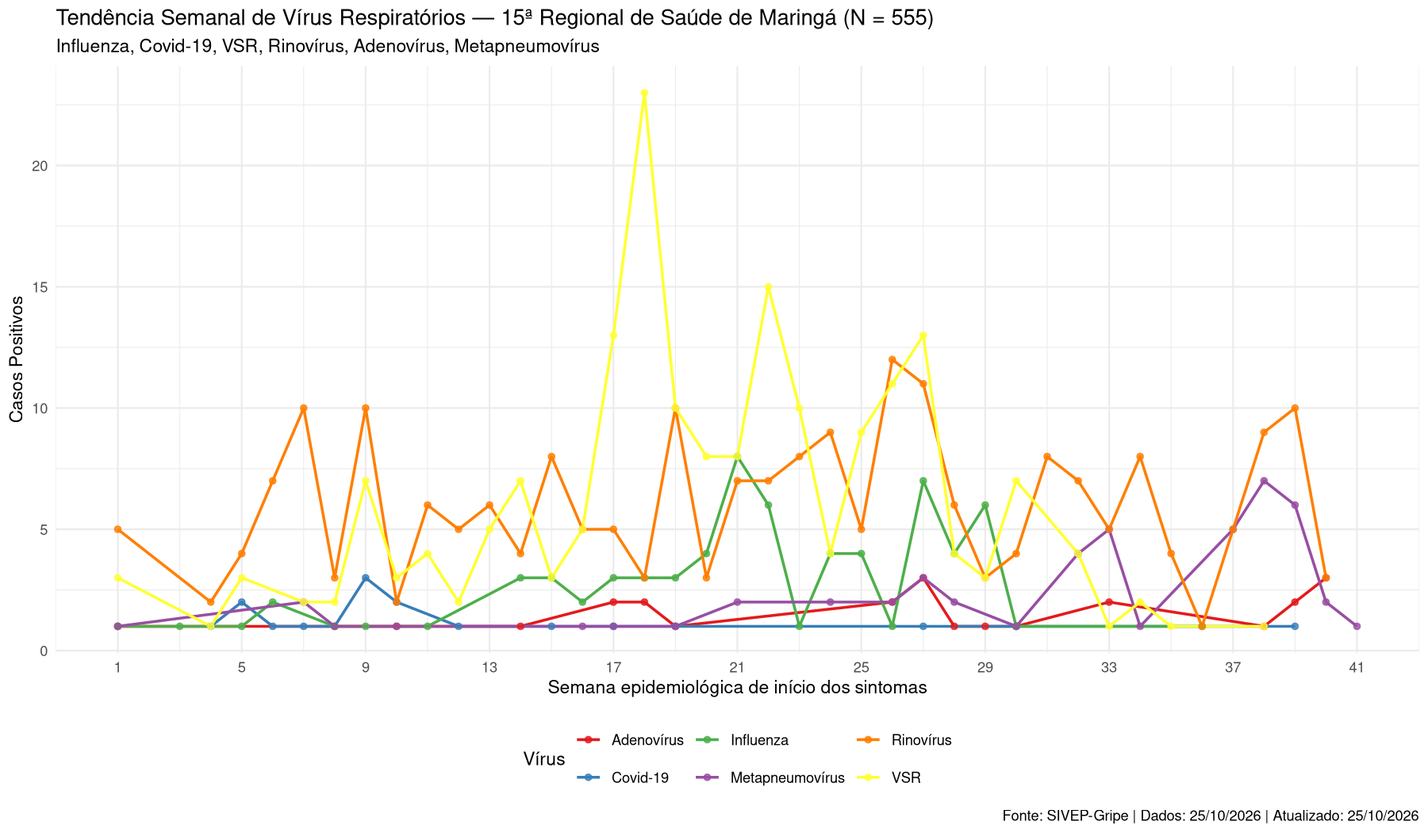
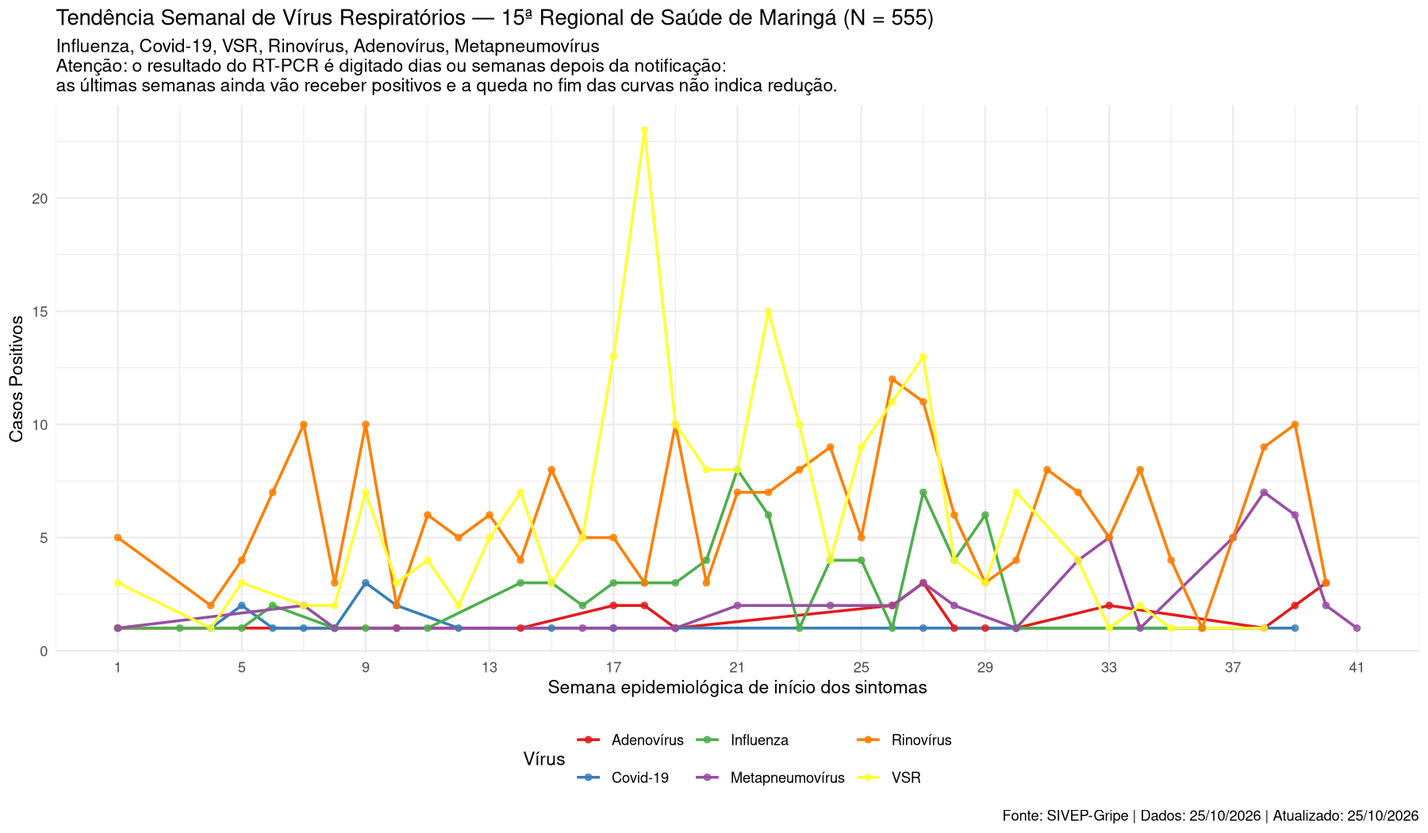
Atualização de layout/texto — 25/10/2026

diff --git a/docs/index.html b/docs/index.html
@@ -192,7 +192,7 @@ pre > code.sourceCode > span > a:first-child::before { text-decoration: underlin
     <div>
     <div class="quarto-title-meta-heading">Data de Publicação</div>
     <div class="quarto-title-meta-contents">
-      <p class="date">25/10/2026 12:55</p>
+      <p class="date">25/10/2026 13:11</p>
     </div>
   </div>
   
@@ -944,6 +944,13 @@ Nota
 </div>
 </div>
 </div>
+<p>O gráfico abaixo mostra cada uma dessas semanas: a barra é o total conhecido hoje, o ponto vermelho com a barra de erro é a estimativa feita quando aquela era a última semana disponível, e o ✕ cinza é quantos casos já estavam digitados naquele momento. Quando a barra azul termina dentro da barra de erro, a estimativa acertou.</p>
+<div class="quarto-figure quarto-figure-center">
+<figure class="figure">
+<p><a href="graficos/06d_nowcasting_validacao.png" class="lightbox" data-gallery="quarto-lightbox-gallery-2" title="Validação retrospectiva do nowcasting — estimativa feita na época × total conhecido hoje."><img src="graficos/06d_nowcasting_validacao.png" class="img-fluid figure-img" alt="Validação retrospectiva do nowcasting — estimativa feita na época × total conhecido hoje."></a></p>
+<figcaption>Validação retrospectiva do nowcasting — estimativa feita na época × total conhecido hoje.</figcaption>
+</figure>
+</div>
 <p>A estimativa da última semana é a mais incerta (intervalo largo), porque se baseia em poucos casos já digitados. Detalhes do modelo na <a href="https://github.com/valentim1979/virus-respiratorios/blob/main/METODOLOGIA.md">metodologia</a>.</p>
 </div>
 </div>
@@ -952,7 +959,7 @@ Nota
 <div id="tabset-1-2" class="tab-pane" role="tabpanel" aria-labelledby="tabset-1-2-tab">
 <div class="quarto-figure quarto-figure-center">
 <figure class="figure">
-<p><a href="graficos/06_curva_epidemica_comparativa.png" class="lightbox" data-gallery="quarto-lightbox-gallery-2" title="Curva epidêmica por semana epidemiológica de início dos sintomas — comparativo anual (2024–2026). A linha mais espessa representa o ano corrente."><img src="graficos/06_curva_epidemica_comparativa.png" class="img-fluid figure-img" alt="Curva epidêmica por semana epidemiológica de início dos sintomas — comparativo anual (2024–2026). A linha mais espessa representa o ano corrente."></a></p>
+<p><a href="graficos/06_curva_epidemica_comparativa.png" class="lightbox" data-gallery="quarto-lightbox-gallery-3" title="Curva epidêmica por semana epidemiológica de início dos sintomas — comparativo anual (2024–2026). A linha mais espessa representa o ano corrente."><img src="graficos/06_curva_epidemica_comparativa.png" class="img-fluid figure-img" alt="Curva epidêmica por semana epidemiológica de início dos sintomas — comparativo anual (2024–2026). A linha mais espessa representa o ano corrente."></a></p>
 <figcaption>Curva epidêmica por semana epidemiológica de início dos sintomas — comparativo anual (2024–2026). A linha mais espessa representa o ano corrente.</figcaption>
 </figure>
 </div>
@@ -985,7 +992,7 @@ Nota
 </div>
 <div class="quarto-figure quarto-figure-center">
 <figure class="figure">
-<p><a href="graficos/06b_canal_endemico.png" class="lightbox" data-gallery="quarto-lightbox-gallery-3" title="Canal endêmico de SRAG por semana epidemiológica de início dos sintomas — zona verde = esperado (P25–P75), zona amarela = alerta (P75–P90), pontos acima da zona amarela = nível epidêmico (> P90). Linha tracejada = mediana histórica pós-pandêmica (2022–2025)."><img src="graficos/06b_canal_endemico.png" class="img-fluid figure-img" alt="Canal endêmico de SRAG por semana epidemiológica de início dos sintomas — zona verde = esperado (P25–P75), zona amarela = alerta (P75–P90), pontos acima da zona amarela = nível epidêmico (> P90). Linha tracejada = mediana histórica pós-pandêmica (2022–2025)."></a></p>
+<p><a href="graficos/06b_canal_endemico.png" class="lightbox" data-gallery="quarto-lightbox-gallery-4" title="Canal endêmico de SRAG por semana epidemiológica de início dos sintomas — zona verde = esperado (P25–P75), zona amarela = alerta (P75–P90), pontos acima da zona amarela = nível epidêmico (> P90). Linha tracejada = mediana histórica pós-pandêmica (2022–2025)."><img src="graficos/06b_canal_endemico.png" class="img-fluid figure-img" alt="Canal endêmico de SRAG por semana epidemiológica de início dos sintomas — zona verde = esperado (P25–P75), zona amarela = alerta (P75–P90), pontos acima da zona amarela = nível epidêmico (> P90). Linha tracejada = mediana histórica pós-pandêmica (2022–2025)."></a></p>
 <figcaption>Canal endêmico de SRAG por semana epidemiológica de início dos sintomas — zona verde = esperado (P25–P75), zona amarela = alerta (P75–P90), pontos acima da zona amarela = nível epidêmico (&gt; P90). Linha tracejada = mediana histórica pós-pandêmica (2022–2025).</figcaption>
 </figure>
 </div>
@@ -993,7 +1000,7 @@ Nota
 <div id="tabset-1-4" class="tab-pane" role="tabpanel" aria-labelledby="tabset-1-4-tab">
 <div class="quarto-figure quarto-figure-center">
 <figure class="figure">
-<p><a href="graficos/07_notificacoes_semana_epi.png" class="lightbox" data-gallery="quarto-lightbox-gallery-4" title="Total de notificações de SRAG por semana epidemiológica de início dos sintomas — 2026."><img src="graficos/07_notificacoes_semana_epi.png" class="img-fluid figure-img" alt="Total de notificações de SRAG por semana epidemiológica de início dos sintomas — 2026."></a></p>
+<p><a href="graficos/07_notificacoes_semana_epi.png" class="lightbox" data-gallery="quarto-lightbox-gallery-5" title="Total de notificações de SRAG por semana epidemiológica de início dos sintomas — 2026."><img src="graficos/07_notificacoes_semana_epi.png" class="img-fluid figure-img" alt="Total de notificações de SRAG por semana epidemiológica de início dos sintomas — 2026."></a></p>
 <figcaption>Total de notificações de SRAG por semana epidemiológica de início dos sintomas — 2026.</figcaption>
 </figure>
 </div>
@@ -1001,7 +1008,7 @@ Nota
 <div id="tabset-1-5" class="tab-pane" role="tabpanel" aria-labelledby="tabset-1-5-tab">
 <div class="quarto-figure quarto-figure-center">
 <figure class="figure">
-<p><a href="graficos/08_confirmados_semana_epi.png" class="lightbox" data-gallery="quarto-lightbox-gallery-5" title="Casos confirmados de SRAG por semana epidemiológica de início dos sintomas — 2026."><img src="graficos/08_confirmados_semana_epi.png" class="img-fluid figure-img" alt="Casos confirmados de SRAG por semana epidemiológica de início dos sintomas — 2026."></a></p>
+<p><a href="graficos/08_confirmados_semana_epi.png" class="lightbox" data-gallery="quarto-lightbox-gallery-6" title="Casos confirmados de SRAG por semana epidemiológica de início dos sintomas — 2026."><img src="graficos/08_confirmados_semana_epi.png" class="img-fluid figure-img" alt="Casos confirmados de SRAG por semana epidemiológica de início dos sintomas — 2026."></a></p>
 <figcaption>Casos confirmados de SRAG por semana epidemiológica de início dos sintomas — 2026.</figcaption>
 </figure>
 </div>
@@ -1009,7 +1016,7 @@ Nota
 <div id="tabset-1-6" class="tab-pane" role="tabpanel" aria-labelledby="tabset-1-6-tab">
 <div class="quarto-figure quarto-figure-center">
 <figure class="figure">
-<p><a href="graficos/07b_variacao_semanal.png" class="lightbox" data-gallery="quarto-lightbox-gallery-6" title="Casos de SRAG por semana epidemiológica de início dos sintomas, com linha de média do período e variação percentual semana a semana. Vermelho = aumento em relação à semana anterior. Verde = redução."><img src="graficos/07b_variacao_semanal.png" class="img-fluid figure-img" alt="Casos de SRAG por semana epidemiológica de início dos sintomas, com linha de média do período e variação percentual semana a semana. Vermelho = aumento em relação à semana anterior. Verde = redução."></a></p>
+<p><a href="graficos/07b_variacao_semanal.png" class="lightbox" data-gallery="quarto-lightbox-gallery-7" title="Casos de SRAG por semana epidemiológica de início dos sintomas, com linha de média do período e variação percentual semana a semana. Vermelho = aumento em relação à semana anterior. Verde = redução."><img src="graficos/07b_variacao_semanal.png" class="img-fluid figure-img" alt="Casos de SRAG por semana epidemiológica de início dos sintomas, com linha de média do período e variação percentual semana a semana. Vermelho = aumento em relação à semana anterior. Verde = redução."></a></p>
 <figcaption>Casos de SRAG por semana epidemiológica de início dos sintomas, com linha de média do período e variação percentual semana a semana. Vermelho = aumento em relação à semana anterior. Verde = redução.</figcaption>
 </figure>
 </div>
@@ -1026,7 +1033,7 @@ Nota
 <div id="tabset-2-1" class="tab-pane active" role="tabpanel" aria-labelledby="tabset-2-1-tab">
 <div class="quarto-figure quarto-figure-center">
 <figure class="figure">
-<p><a href="graficos/09_incidencia_por_municipio.png" class="lightbox" data-gallery="quarto-lightbox-gallery-7" title="Taxa de incidência de SRAG por município da 15ª RS — casos por 100 mil hab. (Pop. estimada 2025)."><img src="graficos/09_incidencia_por_municipio.png" class="img-fluid figure-img" alt="Taxa de incidência de SRAG por município da 15ª RS — casos por 100 mil hab. (Pop. estimada 2025)."></a></p>
+<p><a href="graficos/09_incidencia_por_municipio.png" class="lightbox" data-gallery="quarto-lightbox-gallery-8" title="Taxa de incidência de SRAG por município da 15ª RS — casos por 100 mil hab. (Pop. estimada 2025)."><img src="graficos/09_incidencia_por_municipio.png" class="img-fluid figure-img" alt="Taxa de incidência de SRAG por município da 15ª RS — casos por 100 mil hab. (Pop. estimada 2025)."></a></p>
 <figcaption>Taxa de incidência de SRAG por município da 15ª RS — casos por 100 mil hab. (Pop. estimada 2025).</figcaption>
 </figure>
 </div>
@@ -1034,7 +1041,7 @@ Nota
 <div id="tabset-2-2" class="tab-pane" role="tabpanel" aria-labelledby="tabset-2-2-tab">
 <div class="quarto-figure quarto-figure-center">
 <figure class="figure">
-<p><a href="graficos/10_notificacoes_regionais_pr.png" class="lightbox" data-gallery="quarto-lightbox-gallery-8" title="Total de notificações de SRAG por Regional de Saúde — Paraná — 2026."><img src="graficos/10_notificacoes_regionais_pr.png" class="img-fluid figure-img" alt="Total de notificações de SRAG por Regional de Saúde — Paraná — 2026."></a></p>
+<p><a href="graficos/10_notificacoes_regionais_pr.png" class="lightbox" data-gallery="quarto-lightbox-gallery-9" title="Total de notificações de SRAG por Regional de Saúde — Paraná — 2026."><img src="graficos/10_notificacoes_regionais_pr.png" class="img-fluid figure-img" alt="Total de notificações de SRAG por Regional de Saúde — Paraná — 2026."></a></p>
 <figcaption>Total de notificações de SRAG por Regional de Saúde — Paraná — 2026.</figcaption>
 </figure>
 </div>
@@ -1089,7 +1096,7 @@ Nota
 <div id="tabset-4-1" class="tab-pane active" role="tabpanel" aria-labelledby="tabset-4-1-tab">
 <div class="quarto-figure quarto-figure-center">
 <figure class="figure">
-<p><a href="graficos/11_distribuicao_sexo.png" class="lightbox" data-gallery="quarto-lightbox-gallery-11" title="Distribuição de notificações de SRAG por sexo — 15ª RS — 2026."><img src="graficos/11_distribuicao_sexo.png" class="img-fluid figure-img" alt="Distribuição de notificações de SRAG por sexo — 15ª RS — 2026."></a></p>
+<p><a href="graficos/11_distribuicao_sexo.png" class="lightbox" data-gallery="quarto-lightbox-gallery-12" title="Distribuição de notificações de SRAG por sexo — 15ª RS — 2026."><img src="graficos/11_distribuicao_sexo.png" class="img-fluid figure-img" alt="Distribuição de notificações de SRAG por sexo — 15ª RS — 2026."></a></p>
 <figcaption>Distribuição de notificações de SRAG por sexo — 15ª RS — 2026.</figcaption>
 </figure>
 </div>
@@ -1097,7 +1104,7 @@ Nota
 <div id="tabset-4-2" class="tab-pane" role="tabpanel" aria-labelledby="tabset-4-2-tab">
 <div class="quarto-figure quarto-figure-center">
 <figure class="figure">
-<p><a href="graficos/12_classificacao_final.png" class="lightbox" data-gallery="quarto-lightbox-gallery-12" title="Classificação final dos casos de SRAG notificados — 15ª RS — 2026."><img src="graficos/12_classificacao_final.png" class="img-fluid figure-img" alt="Classificação final dos casos de SRAG notificados — 15ª RS — 2026."></a></p>
+<p><a href="graficos/12_classificacao_final.png" class="lightbox" data-gallery="quarto-lightbox-gallery-13" title="Classificação final dos casos de SRAG notificados — 15ª RS — 2026."><img src="graficos/12_classificacao_final.png" class="img-fluid figure-img" alt="Classificação final dos casos de SRAG notificados — 15ª RS — 2026."></a></p>
 <figcaption>Classificação final dos casos de SRAG notificados — 15ª RS — 2026.</figcaption>
 </figure>
 </div>
@@ -1105,7 +1112,7 @@ Nota
 <div id="tabset-4-3" class="tab-pane" role="tabpanel" aria-labelledby="tabset-4-3-tab">
 <div class="quarto-figure quarto-figure-center">
 <figure class="figure">
-<p><a href="graficos/16_faixa_etaria_notif_confirmados.png" class="lightbox" data-gallery="quarto-lightbox-gallery-13" title="Comparativo de faixa etária entre notificados e confirmados de SRAG — 15ª RS — 2026."><img src="graficos/16_faixa_etaria_notif_confirmados.png" class="img-fluid figure-img" alt="Comparativo de faixa etária entre notificados e confirmados de SRAG — 15ª RS — 2026."></a></p>
+<p><a href="graficos/16_faixa_etaria_notif_confirmados.png" class="lightbox" data-gallery="quarto-lightbox-gallery-14" title="Comparativo de faixa etária entre notificados e confirmados de SRAG — 15ª RS — 2026."><img src="graficos/16_faixa_etaria_notif_confirmados.png" class="img-fluid figure-img" alt="Comparativo de faixa etária entre notificados e confirmados de SRAG — 15ª RS — 2026."></a></p>
 <figcaption>Comparativo de faixa etária entre notificados e confirmados de SRAG — 15ª RS — 2026.</figcaption>
 </figure>
 </div>
@@ -1113,7 +1120,7 @@ Nota
 <div id="tabset-4-4" class="tab-pane" role="tabpanel" aria-labelledby="tabset-4-4-tab">
 <div class="quarto-figure quarto-figure-center">
 <figure class="figure">
-<p><a href="graficos/17_piramide_etaria_notificados.png" class="lightbox" data-gallery="quarto-lightbox-gallery-14" title="Pirâmide etária dos casos notificados de SRAG, por sexo — 15ª RS — 2026."><img src="graficos/17_piramide_etaria_notificados.png" class="img-fluid figure-img" alt="Pirâmide etária dos casos notificados de SRAG, por sexo — 15ª RS — 2026."></a></p>
+<p><a href="graficos/17_piramide_etaria_notificados.png" class="lightbox" data-gallery="quarto-lightbox-gallery-15" title="Pirâmide etária dos casos notificados de SRAG, por sexo — 15ª RS — 2026."><img src="graficos/17_piramide_etaria_notificados.png" class="img-fluid figure-img" alt="Pirâmide etária dos casos notificados de SRAG, por sexo — 15ª RS — 2026."></a></p>
 <figcaption>Pirâmide etária dos casos notificados de SRAG, por sexo — 15ª RS — 2026.</figcaption>
 </figure>
 </div>
@@ -1121,7 +1128,7 @@ Nota
 <div id="tabset-4-5" class="tab-pane" role="tabpanel" aria-labelledby="tabset-4-5-tab">
 <div class="quarto-figure quarto-figure-center">
 <figure class="figure">
-<p><a href="graficos/18_piramide_etaria_obitos.png" class="lightbox" data-gallery="quarto-lightbox-gallery-15" title="Pirâmide etária dos óbitos por SRAG, por sexo — 15ª RS — 2026."><img src="graficos/18_piramide_etaria_obitos.png" class="img-fluid figure-img" alt="Pirâmide etária dos óbitos por SRAG, por sexo — 15ª RS — 2026."></a></p>
+<p><a href="graficos/18_piramide_etaria_obitos.png" class="lightbox" data-gallery="quarto-lightbox-gallery-16" title="Pirâmide etária dos óbitos por SRAG, por sexo — 15ª RS — 2026."><img src="graficos/18_piramide_etaria_obitos.png" class="img-fluid figure-img" alt="Pirâmide etária dos óbitos por SRAG, por sexo — 15ª RS — 2026."></a></p>
 <figcaption>Pirâmide etária dos óbitos por SRAG, por sexo — 15ª RS — 2026.</figcaption>
 </figure>
 </div>
@@ -1129,7 +1136,7 @@ Nota
 <div id="tabset-4-6" class="tab-pane" role="tabpanel" aria-labelledby="tabset-4-6-tab">
 <div class="quarto-figure quarto-figure-center">
 <figure class="figure">
-<p><a href="graficos/19_evolucao_desfecho.png" class="lightbox" data-gallery="quarto-lightbox-gallery-16" title="Distribuição dos casos de SRAG por evolução (desfecho) — cura, óbito e em investigação — 15ª RS — 2026."><img src="graficos/19_evolucao_desfecho.png" class="img-fluid figure-img" alt="Distribuição dos casos de SRAG por evolução (desfecho) — cura, óbito e em investigação — 15ª RS — 2026."></a></p>
+<p><a href="graficos/19_evolucao_desfecho.png" class="lightbox" data-gallery="quarto-lightbox-gallery-17" title="Distribuição dos casos de SRAG por evolução (desfecho) — cura, óbito e em investigação — 15ª RS — 2026."><img src="graficos/19_evolucao_desfecho.png" class="img-fluid figure-img" alt="Distribuição dos casos de SRAG por evolução (desfecho) — cura, óbito e em investigação — 15ª RS — 2026."></a></p>
 <figcaption>Distribuição dos casos de SRAG por evolução (desfecho) — cura, óbito e em investigação — 15ª RS — 2026.</figcaption>
 </figure>
 </div>
@@ -1137,7 +1144,7 @@ Nota
 <div id="tabset-4-7" class="tab-pane" role="tabpanel" aria-labelledby="tabset-4-7-tab">
 <div class="quarto-figure quarto-figure-center">
 <figure class="figure">
-<p><a href="graficos/20_raca_cor.png" class="lightbox" data-gallery="quarto-lightbox-gallery-17" title="Distribuição de casos de SRAG por raça/cor autodeclarada — 15ª RS — 2026."><img src="graficos/20_raca_cor.png" class="img-fluid figure-img" alt="Distribuição de casos de SRAG por raça/cor autodeclarada — 15ª RS — 2026."></a></p>
+<p><a href="graficos/20_raca_cor.png" class="lightbox" data-gallery="quarto-lightbox-gallery-18" title="Distribuição de casos de SRAG por raça/cor autodeclarada — 15ª RS — 2026."><img src="graficos/20_raca_cor.png" class="img-fluid figure-img" alt="Distribuição de casos de SRAG por raça/cor autodeclarada — 15ª RS — 2026."></a></p>
 <figcaption>Distribuição de casos de SRAG por raça/cor autodeclarada — 15ª RS — 2026.</figcaption>
 </figure>
 </div>
@@ -1154,7 +1161,7 @@ Nota
 <div id="tabset-5-1" class="tab-pane active" role="tabpanel" aria-labelledby="tabset-5-1-tab">
 <div class="quarto-figure quarto-figure-center">
 <figure class="figure">
-<p><a href="graficos/13_circulacao_viral_total.png" class="lightbox" data-gallery="quarto-lightbox-gallery-18" title="Agentes virais identificados por RT-PCR nos casos de SRAG — 15ª RS — 2026."><img src="graficos/13_circulacao_viral_total.png" class="img-fluid figure-img" alt="Agentes virais identificados por RT-PCR nos casos de SRAG — 15ª RS — 2026."></a></p>
+<p><a href="graficos/13_circulacao_viral_total.png" class="lightbox" data-gallery="quarto-lightbox-gallery-19" title="Agentes virais identificados por RT-PCR nos casos de SRAG — 15ª RS — 2026."><img src="graficos/13_circulacao_viral_total.png" class="img-fluid figure-img" alt="Agentes virais identificados por RT-PCR nos casos de SRAG — 15ª RS — 2026."></a></p>
 <figcaption>Agentes virais identificados por RT-PCR nos casos de SRAG — 15ª RS — 2026.</figcaption>
 </figure>
 </div>
@@ -1162,7 +1169,7 @@ Nota
 <div id="tabset-5-2" class="tab-pane" role="tabpanel" aria-labelledby="tabset-5-2-tab">
 <div class="quarto-figure quarto-figure-center">
 <figure class="figure">
-<p><a href="graficos/14_tendencia_viral_semanal.png" class="lightbox" data-gallery="quarto-lightbox-gallery-19" title="Tendência semanal (semana de início dos sintomas) dos principais vírus respiratórios por RT-PCR — Influenza, Covid-19, VSR, Rinovírus, Adenovírus, Metapneumovírus — 15ª RS — 2026."><img src="graficos/14_tendencia_viral_semanal.png" class="img-fluid figure-img" alt="Tendência semanal (semana de início dos sintomas) dos principais vírus respiratórios por RT-PCR — Influenza, Covid-19, VSR, Rinovírus, Adenovírus, Metapneumovírus — 15ª RS — 2026."></a></p>
+<p><a href="graficos/14_tendencia_viral_semanal.png" class="lightbox" data-gallery="quarto-lightbox-gallery-20" title="Tendência semanal (semana de início dos sintomas) dos principais vírus respiratórios por RT-PCR — Influenza, Covid-19, VSR, Rinovírus, Adenovírus, Metapneumovírus — 15ª RS — 2026."><img src="graficos/14_tendencia_viral_semanal.png" class="img-fluid figure-img" alt="Tendência semanal (semana de início dos sintomas) dos principais vírus respiratórios por RT-PCR — Influenza, Covid-19, VSR, Rinovírus, Adenovírus, Metapneumovírus — 15ª RS — 2026."></a></p>
 <figcaption>Tendência semanal (semana de início dos sintomas) dos principais vírus respiratórios por RT-PCR — Influenza, Covid-19, VSR, Rinovírus, Adenovírus, Metapneumovírus — 15ª RS — 2026.</figcaption>
 </figure>
 </div>
@@ -1170,7 +1177,7 @@ Nota
 <div id="tabset-5-3" class="tab-pane" role="tabpanel" aria-labelledby="tabset-5-3-tab">
 <div class="quarto-figure quarto-figure-center">
 <figure class="figure">
-<p><a href="graficos/15_tipos_linhagens_influenza.png" class="lightbox" data-gallery="quarto-lightbox-gallery-20" title="Tipos e linhagens de Influenza identificados por RT-PCR — 15ª RS — 2026."><img src="graficos/15_tipos_linhagens_influenza.png" class="img-fluid figure-img" alt="Tipos e linhagens de Influenza identificados por RT-PCR — 15ª RS — 2026."></a></p>
+<p><a href="graficos/15_tipos_linhagens_influenza.png" class="lightbox" data-gallery="quarto-lightbox-gallery-21" title="Tipos e linhagens de Influenza identificados por RT-PCR — 15ª RS — 2026."><img src="graficos/15_tipos_linhagens_influenza.png" class="img-fluid figure-img" alt="Tipos e linhagens de Influenza identificados por RT-PCR — 15ª RS — 2026."></a></p>
 <figcaption>Tipos e linhagens de Influenza identificados por RT-PCR — 15ª RS — 2026.</figcaption>
 </figure>
 </div>
@@ -1178,7 +1185,7 @@ Nota
 <div id="tabset-5-4" class="tab-pane" role="tabpanel" aria-labelledby="tabset-5-4-tab">
 <div class="quarto-figure quarto-figure-center">
 <figure class="figure">
-<p><a href="graficos/22_virus_tendencia_anual.png" class="lightbox" data-gallery="quarto-lightbox-gallery-21" title="Variação anual das detecções de vírus respiratórios por RT-PCR — 15ª RS — 2022 em diante. Anos 2020–2021 excluídos por perfil pandêmico atípico. Dados de 2026 parciais."><img src="graficos/22_virus_tendencia_anual.png" class="img-fluid figure-img" alt="Variação anual das detecções de vírus respiratórios por RT-PCR — 15ª RS — 2022 em diante. Anos 2020–2021 excluídos por perfil pandêmico atípico. Dados de 2026 parciais."></a></p>
+<p><a href="graficos/22_virus_tendencia_anual.png" class="lightbox" data-gallery="quarto-lightbox-gallery-22" title="Variação anual das detecções de vírus respiratórios por RT-PCR — 15ª RS — 2022 em diante. Anos 2020–2021 excluídos por perfil pandêmico atípico. Dados de 2026 parciais."><img src="graficos/22_virus_tendencia_anual.png" class="img-fluid figure-img" alt="Variação anual das detecções de vírus respiratórios por RT-PCR — 15ª RS — 2022 em diante. Anos 2020–2021 excluídos por perfil pandêmico atípico. Dados de 2026 parciais."></a></p>
 <figcaption>Variação anual das detecções de vírus respiratórios por RT-PCR — 15ª RS — 2022 em diante. Anos 2020–2021 excluídos por perfil pandêmico atípico. Dados de 2026 parciais.</figcaption>
 </figure>
 </div>
@@ -1186,7 +1193,7 @@ Nota
 <div id="tabset-5-5" class="tab-pane" role="tabpanel" aria-labelledby="tabset-5-5-tab">
 <div class="quarto-figure quarto-figure-center">
 <figure class="figure">
-<p><a href="graficos/D13_virus_faixa_etaria_heatmap.png" class="lightbox" data-gallery="quarto-lightbox-gallery-22" title="Percentual de cada vírus dentro do total de PCR positivos por faixa etária. Células mais escuras indicam maior predominância do vírus naquela faixa — 15ª RS — 2026."><img src="graficos/D13_virus_faixa_etaria_heatmap.png" class="img-fluid figure-img" alt="Percentual de cada vírus dentro do total de PCR positivos por faixa etária. Células mais escuras indicam maior predominância do vírus naquela faixa — 15ª RS — 2026."></a></p>
+<p><a href="graficos/D13_virus_faixa_etaria_heatmap.png" class="lightbox" data-gallery="quarto-lightbox-gallery-23" title="Percentual de cada vírus dentro do total de PCR positivos por faixa etária. Células mais escuras indicam maior predominância do vírus naquela faixa — 15ª RS — 2026."><img src="graficos/D13_virus_faixa_etaria_heatmap.png" class="img-fluid figure-img" alt="Percentual de cada vírus dentro do total de PCR positivos por faixa etária. Células mais escuras indicam maior predominância do vírus naquela faixa — 15ª RS — 2026."></a></p>
 <figcaption>Percentual de cada vírus dentro do total de PCR positivos por faixa etária. Células mais escuras indicam maior predominância do vírus naquela faixa — 15ª RS — 2026.</figcaption>
 </figure>
 </div>
@@ -1194,7 +1201,7 @@ Nota
 <div id="tabset-5-6" class="tab-pane" role="tabpanel" aria-labelledby="tabset-5-6-tab">
 <div class="quarto-figure quarto-figure-center">
 <figure class="figure">
-<p><a href="graficos/D13_virus_faixa_etaria_barras.png" class="lightbox" data-gallery="quarto-lightbox-gallery-23" title="Composição proporcional dos vírus identificados por RT-PCR em cada faixa etária — 15ª RS — 2026."><img src="graficos/D13_virus_faixa_etaria_barras.png" class="img-fluid figure-img" alt="Composição proporcional dos vírus identificados por RT-PCR em cada faixa etária — 15ª RS — 2026."></a></p>
+<p><a href="graficos/D13_virus_faixa_etaria_barras.png" class="lightbox" data-gallery="quarto-lightbox-gallery-24" title="Composição proporcional dos vírus identificados por RT-PCR em cada faixa etária — 15ª RS — 2026."><img src="graficos/D13_virus_faixa_etaria_barras.png" class="img-fluid figure-img" alt="Composição proporcional dos vírus identificados por RT-PCR em cada faixa etária — 15ª RS — 2026."></a></p>
 <figcaption>Composição proporcional dos vírus identificados por RT-PCR em cada faixa etária — 15ª RS — 2026.</figcaption>
 </figure>
 </div>
